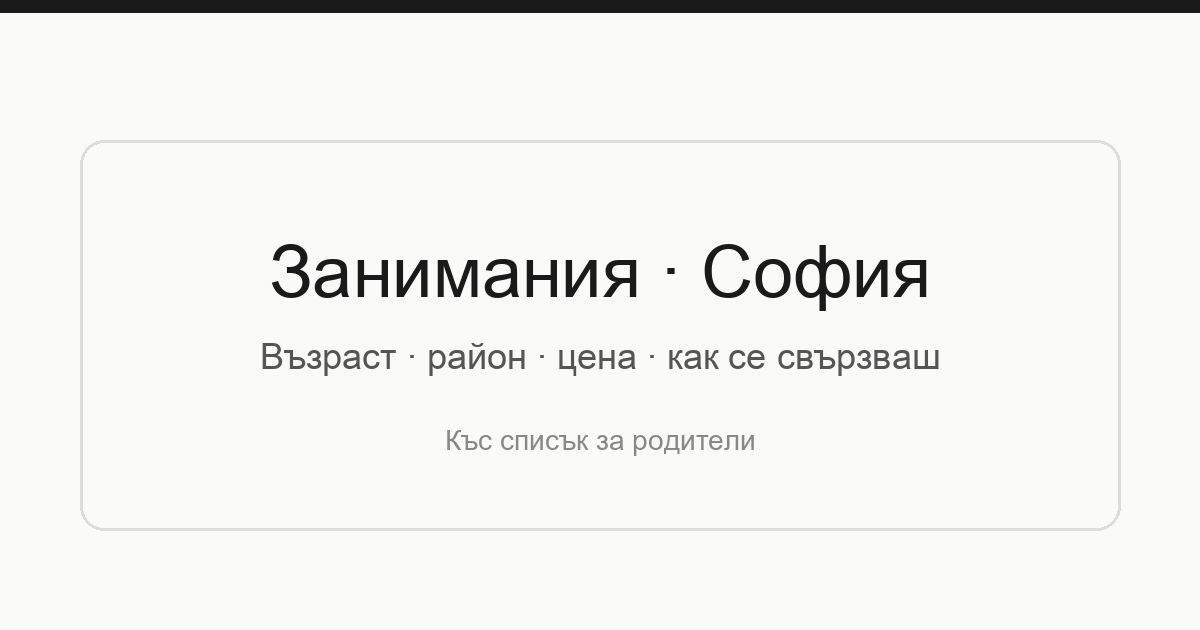
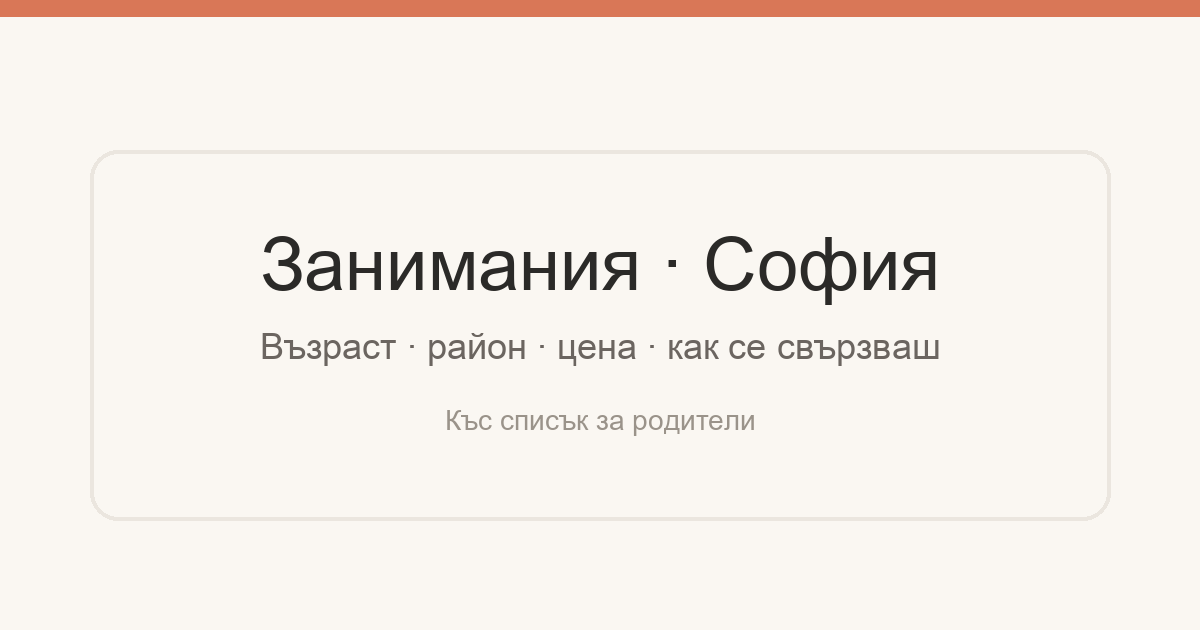
Visual pass: warm light cards + photo placeholders

diff --git a/index.html b/index.html
@@ -19,132 +19,174 @@
   <meta name="twitter:image" content="https://kids-events-bridge-deploy.vercel.app/og.png" />
   <meta name="robots" content="noindex" />
   <style>
-    :root { --fg:#1a1a1a; --muted:#5a5a5a; --line:#e2e2e2; --bg:#f7f7f5; --card:#fff; --accent:#1a1a1a; }
-    * { box-sizing: border-box; }
-    body { margin:0; font-family: system-ui, -apple-system, "Segoe UI", sans-serif; background:var(--bg); color:var(--fg); line-height:1.45; -webkit-text-size-adjust:100%; }
-    header { max-width:720px; margin:0 auto; padding:24px 16px 8px; }
-    h1 { font-size:clamp(1.35rem, 4.5vw, 1.7rem); font-weight:700; margin:0 0 8px; letter-spacing:-0.02em; }
-    .sub { color:var(--muted); font-size:1rem; margin:0 0 6px; }
-    .note { color:var(--muted); font-size:0.85rem; margin:0; }
-    main { max-width:720px; margin:0 auto; padding:12px 16px 40px; display:flex; flex-direction:column; gap:14px; }
-    article.card {
-      background:var(--card); border:1px solid var(--line); border-radius:14px; padding:16px;
-      display:grid; gap:8px;
-      box-shadow: 0 1px 2px rgba(0,0,0,0.04);
+    :root {
+      --fg:#2b2a28; --muted:#6b6560; --line:#ebe6df; --bg:#faf7f2;
+      --card:#ffffff; --accent:#d97757; --accent-text:#fff;
     }
-    .name { font-weight:700; font-size:1.1rem; line-height:1.3; }
-    .meta { font-size:0.95rem; color:var(--muted); }
-    .price { font-size:1rem; font-weight:650; color:var(--fg); }
+    * { box-sizing: border-box; }
+    body {
+      margin:0; font-family: system-ui, -apple-system, "Segoe UI", sans-serif;
+      background:var(--bg); color:var(--fg); line-height:1.45; -webkit-text-size-adjust:100%;
+    }
+    header { max-width:760px; margin:0 auto; padding:28px 18px 10px; }
+    h1 { font-size:clamp(1.45rem, 5vw, 1.85rem); font-weight:750; margin:0 0 8px; letter-spacing:-0.02em; }
+    .sub { color:var(--muted); font-size:1.05rem; margin:0 0 6px; }
+    .note { color:var(--muted); font-size:0.88rem; margin:0; }
+    main { max-width:760px; margin:0 auto; padding:12px 18px 48px; display:flex; flex-direction:column; gap:18px; }
+    article.card {
+      background:var(--card); border:1px solid var(--line); border-radius:18px;
+      overflow:hidden; box-shadow: 0 4px 14px rgba(60,40,20,0.06);
+      display:flex; flex-direction:column;
+    }
+    .thumb {
+      display:block; width:100%; aspect-ratio:4/3; object-fit:cover; background:#eee;
+    }
+    .body { padding:16px 16px 18px; display:grid; gap:8px; }
+    .name { font-weight:750; font-size:1.2rem; line-height:1.25; }
+    .meta { font-size:1rem; color:var(--muted); }
+    .price { font-size:1.05rem; font-weight:700; color:var(--fg); }
     a.cta {
       display:inline-flex; align-items:center; justify-content:center;
-      margin-top:6px; padding:12px 16px; border-radius:10px; min-height:44px;
-      background:var(--accent); color:#fff; text-decoration:none; font-size:0.95rem; font-weight:650;
-      width:100%;
+      margin-top:8px; padding:14px 18px; border-radius:12px; min-height:48px;
+      background:var(--accent); color:var(--accent-text); text-decoration:none;
+      font-size:1rem; font-weight:700; width:100%;
     }
-    a.cta:hover { opacity:0.92; }
-    footer { max-width:720px; margin:0 auto; padding:0 16px 36px; color:var(--muted); font-size:0.8rem; }
-    @media (min-width:560px) {
-      a.cta { width:fit-content; }
+    a.cta:hover { filter:brightness(0.96); }
+    footer { max-width:760px; margin:0 auto; padding:0 18px 40px; color:var(--muted); font-size:0.82rem; }
+    @media (min-width:600px) {
+      a.cta { width:fit-content; min-width:200px; }
     }
   </style>
 </head>
-
 <body>
   <header>
     <h1>Занимания · София</h1>
     <p class="sub">Възраст · район · цена · как се свързваш</p>
-    <p class="note">Къс списък за тест — не портал и не календар.</p>
+    <p class="note">Къс списък за родители — не портал и не календар.</p>
   </header>
   <main>
     <article class="card">
-      <div class="name">Еднорог–Босорог</div>
-      <div class="meta">арт / игра · 4–12 г.</div>
-      <div class="meta">Гео Милев · Цариградско шосе 91</div>
-      <div class="price">от 18 €</div>
-      <a class="cta" href="https://www.facebook.com/p/%D0%95%D0%B4%D0%BD%D0%BE%D1%80%D0%BE%D0%B3-%D0%91%D0%BE%D1%81%D0%BE%D1%80%D0%BE%D0%B3-61585718240431/" target="_blank" rel="noopener">Пиши във Facebook</a>
+      <img class="thumb" src="img/edinorog.png" alt="" width="800" height="600" loading="lazy" />
+      <div class="body">
+        <div class="name">Еднорог–Босорог</div>
+        <div class="meta">арт / игра · 4–12 г.</div>
+        <div class="meta">Гео Милев · Цариградско шосе 91</div>
+        <div class="price">от 18 €</div>
+        <a class="cta" href="https://www.facebook.com/p/%D0%95%D0%B4%D0%BD%D0%BE%D1%80%D0%BE%D0%B3-%D0%91%D0%BE%D1%81%D0%BE%D1%80%D0%BE%D0%B3-61585718240431/" target="_blank" rel="noopener">Пиши във Facebook</a>
+      </div>
     </article>
     <article class="card">
-      <div class="name">Baby Voice</div>
-      <div class="meta">музика / Montessori · 6–36 м / toddler 12–36 м</div>
-      <div class="meta">Център · бул. Дондуков 19</div>
-      <div class="price">по запитване</div>
-      <a class="cta" href="https://baby.voiceacademy.bg/events" target="_blank" rel="noopener">Към програмата</a>
+      <img class="thumb" src="img/baby-voice.png" alt="" width="800" height="600" loading="lazy" />
+      <div class="body">
+        <div class="name">Baby Voice</div>
+        <div class="meta">музика / Montessori · 6–36 м</div>
+        <div class="meta">Център · бул. Дондуков 19</div>
+        <div class="price">по запитване</div>
+        <a class="cta" href="https://baby.voiceacademy.bg/events" target="_blank" rel="noopener">Към програмата</a>
+      </div>
     </article>
     <article class="card">
-      <div class="name">hartiika.bg</div>
-      <div class="meta">полимерна глина / хартия · 5+</div>
-      <div class="meta">Овча купел · Младост · Дружба</div>
-      <div class="price">по запитване</div>
-      <a class="cta" href="https://www.facebook.com/hartiika.bg/" target="_blank" rel="noopener">Пиши във Facebook</a>
+      <img class="thumb" src="img/hartiika.png" alt="" width="800" height="600" loading="lazy" />
+      <div class="body">
+        <div class="name">hartiika.bg</div>
+        <div class="meta">полимерна глина / хартия · 5+</div>
+        <div class="meta">Овча купел · Младост · Дружба</div>
+        <div class="price">по запитване</div>
+        <a class="cta" href="https://www.facebook.com/hartiika.bg/" target="_blank" rel="noopener">Пиши във Facebook</a>
+      </div>
     </article>
     <article class="card">
-      <div class="name">Пространството</div>
-      <div class="meta">четене / рисуване · 6+</div>
-      <div class="meta">Мусагеница / Дървеница</div>
-      <div class="price">от 10 €</div>
-      <a class="cta" href="https://prostranstvoto.bg/tvorcheski_sabitia/" target="_blank" rel="noopener">Към събитията</a>
+      <img class="thumb" src="img/prostranstvoto.png" alt="" width="800" height="600" loading="lazy" />
+      <div class="body">
+        <div class="name">Пространството</div>
+        <div class="meta">четене / рисуване · 6+</div>
+        <div class="meta">Мусагеница / Дървеница</div>
+        <div class="price">от 10 €</div>
+        <a class="cta" href="https://prostranstvoto.bg/tvorcheski_sabitia/" target="_blank" rel="noopener">Към събитията</a>
+      </div>
     </article>
     <article class="card">
-      <div class="name">Клуб худ. гимнастика „Биляна“</div>
-      <div class="meta">худ. гимнастика · деца / младежи</div>
-      <div class="meta">Ст. Академик · Академика 4 км</div>
-      <div class="price">по запитване</div>
-      <a class="cta" href="https://rgbilyana.com/" target="_blank" rel="noopener">Към сайта</a>
+      <img class="thumb" src="img/bilyana.png" alt="" width="800" height="600" loading="lazy" />
+      <div class="body">
+        <div class="name">Клуб „Биляна“</div>
+        <div class="meta">худ. гимнастика · деца / младежи</div>
+        <div class="meta">Ст. Академик · Академика</div>
+        <div class="price">по запитване</div>
+        <a class="cta" href="https://rgbilyana.com/" target="_blank" rel="noopener">Към сайта</a>
+      </div>
     </article>
     <article class="card">
-      <div class="name">Tiny Tales</div>
-      <div class="meta">музика за малки · 6 м – 3 г.</div>
-      <div class="meta">ул. Кирил Ботев 11</div>
-      <div class="price">по запитване</div>
-      <a class="cta" href="https://tiny-tales.reservio.com/" target="_blank" rel="noopener">Към календара</a>
+      <img class="thumb" src="img/tiny-tales.png" alt="" width="800" height="600" loading="lazy" />
+      <div class="body">
+        <div class="name">Tiny Tales</div>
+        <div class="meta">музика за малки · 6 м – 3 г.</div>
+        <div class="meta">ул. Кирил Ботев 11</div>
+        <div class="price">по запитване</div>
+        <a class="cta" href="https://tiny-tales.reservio.com/" target="_blank" rel="noopener">Към календара</a>
+      </div>
     </article>
     <article class="card">
-      <div class="name">Театър Кошер</div>
-      <div class="meta">куклен театър · предучилищна / начална</div>
-      <div class="meta">София (Централни хали / Мария Луиза)</div>
-      <div class="price">от 6 €</div>
-      <a class="cta" href="https://grabo.bg/places/teatar-kosher" target="_blank" rel="noopener">Към представленията</a>
+      <img class="thumb" src="img/kosher.png" alt="" width="800" height="600" loading="lazy" />
+      <div class="body">
+        <div class="name">Театър Кошер</div>
+        <div class="meta">куклен театър · предучилищна / начална</div>
+        <div class="meta">София · Централни хали</div>
+        <div class="price">от 6 €</div>
+        <a class="cta" href="https://grabo.bg/places/teatar-kosher" target="_blank" rel="noopener">Към представленията</a>
+      </div>
     </article>
     <article class="card">
-      <div class="name">Артистократи</div>
-      <div class="meta">театър / арт ателие · 6–12 г.</div>
-      <div class="meta">Лозенец</div>
-      <div class="price">по запитване</div>
-      <a class="cta" href="https://www.facebook.com/artistokrati" target="_blank" rel="noopener">Пиши във Facebook</a>
+      <img class="thumb" src="img/artistokrati.png" alt="" width="800" height="600" loading="lazy" />
+      <div class="body">
+        <div class="name">Артистократи</div>
+        <div class="meta">театър / арт ателие · 6–12 г.</div>
+        <div class="meta">Лозенец</div>
+        <div class="price">по запитване</div>
+        <a class="cta" href="https://www.facebook.com/artistokrati" target="_blank" rel="noopener">Пиши във Facebook</a>
+      </div>
     </article>
     <article class="card">
-      <div class="name">Акро-Спорт София</div>
-      <div class="meta">акробатика · 3–6 г. (от)</div>
-      <div class="meta">Студентски град · Люлин · Герман</div>
-      <div class="price">от 60 €/мес</div>
-      <a class="cta" href="https://akrosport.com/contact/" target="_blank" rel="noopener">Към контакти</a>
+      <img class="thumb" src="img/akro.png" alt="" width="800" height="600" loading="lazy" />
+      <div class="body">
+        <div class="name">Акро-Спорт София</div>
+        <div class="meta">акробатика · от 3–6 г.</div>
+        <div class="meta">Студентски град · Люлин · Герман</div>
+        <div class="price">от 60 €/мес</div>
+        <a class="cta" href="https://akrosport.com/contact/" target="_blank" rel="noopener">Към контакти</a>
+      </div>
     </article>
     <article class="card">
-      <div class="name">Танцова формация Фюжън</div>
-      <div class="meta">модерни / street танци · деца / тийн</div>
-      <div class="meta">Младост · Ал. Малинов 38</div>
-      <div class="price">от ~6 € / занятие</div>
-      <a class="cta" href="https://www.fusion-studio.net/timetable" target="_blank" rel="noopener">Към графика</a>
+      <img class="thumb" src="img/fusion.png" alt="" width="800" height="600" loading="lazy" />
+      <div class="body">
+        <div class="name">Танцова формация Фюжън</div>
+        <div class="meta">модерни / street · деца / тийн</div>
+        <div class="meta">Младост · Ал. Малинов 38</div>
+        <div class="price">от ~6 € / занятие</div>
+        <a class="cta" href="https://www.fusion-studio.net/timetable" target="_blank" rel="noopener">Към графика</a>
+      </div>
     </article>
     <article class="card">
-      <div class="name">The Light Academy</div>
-      <div class="meta">математика / НВО · 7 клас (НВО)</div>
-      <div class="meta">Лозенец · Горски пътник 56</div>
-      <div class="price">по запитване</div>
-      <a class="cta" href="https://uchiteli.bg/courses/podgotovka-za-nvo-7mi-klas-matematika/1343" target="_blank" rel="noopener">Към обявата</a>
+      <img class="thumb" src="img/light-academy.png" alt="" width="800" height="600" loading="lazy" />
+      <div class="body">
+        <div class="name">The Light Academy</div>
+        <div class="meta">математика / НВО · 7. клас</div>
+        <div class="meta">Лозенец · Горски пътник 56</div>
+        <div class="price">по запитване</div>
+        <a class="cta" href="https://uchiteli.bg/courses/podgotovka-za-nvo-7mi-klas-matematika/1343" target="_blank" rel="noopener">Към обявата</a>
+      </div>
     </article>
     <article class="card">
-      <div class="name">British Craft Club</div>
-      <div class="meta">creative workshops EN · деца · EN</div>
-      <div class="meta">Богдановец 20</div>
-      <div class="price">от 30 €/сесия</div>
-      <a class="cta" href="https://britishcraftclub.com/book" target="_blank" rel="noopener">Към записа</a>
+      <img class="thumb" src="img/british-craft.png" alt="" width="800" height="600" loading="lazy" />
+      <div class="body">
+        <div class="name">British Craft Club</div>
+        <div class="meta">creative workshops · EN · деца</div>
+        <div class="meta">Богдановец 20</div>
+        <div class="price">от 30 €/сесия</div>
+        <a class="cta" href="https://britishcraftclub.com/book" target="_blank" rel="noopener">Към записа</a>
+      </div>
     </article>
   </main>
-  <footer>
-    Цените са ориентировъчни от публични страници — уточнявай при запис.
-  </footer>
-
+  <footer>Цените са ориентировъчни от публични страници — уточнявай при запис.</footer>
   <script>
     window.va = window.va || function () { (window.vaq = window.vaq || []).push(arguments); };
   </script>
@@ -157,19 +199,16 @@
       if (p.get(k)) utm[k] = p.get(k);
     });
     function track(name, data) {
-      var payload = Object.assign({}, data || {});
-      if (typeof window.va === "function") {
-        window.va("event", { name: name, data: payload });
-      }
+      if (typeof window.va === "function") window.va("event", { name: name, data: Object.assign({}, data || {}) });
     }
     track("bridge_page_view", utm);
     document.querySelectorAll("a.cta").forEach(function (a) {
       a.addEventListener("click", function () {
-        var card = a.closest("article");
-        var provider = card && card.querySelector(".name")
-          ? card.querySelector(".name").textContent.trim()
-          : "";
-        track("bridge_cta_click", Object.assign({ provider: provider, href: a.href }, utm));
+        var nameEl = a.closest("article") && a.closest("article").querySelector(".name");
+        track("bridge_cta_click", Object.assign({
+          provider: nameEl ? nameEl.textContent.trim() : "",
+          href: a.href
+        }, utm));
       });
     });
   })();
